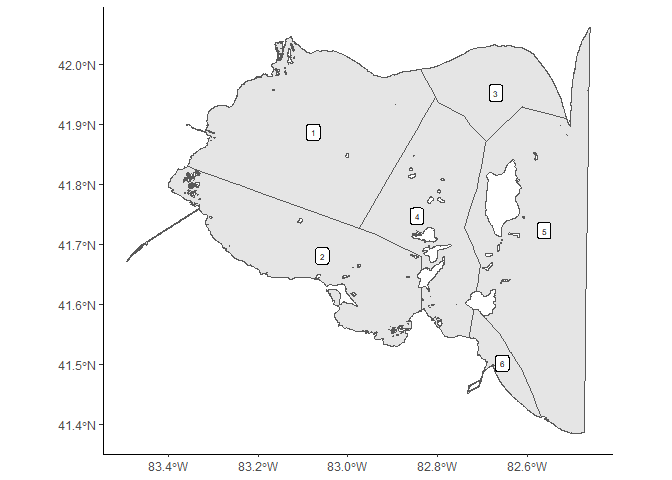
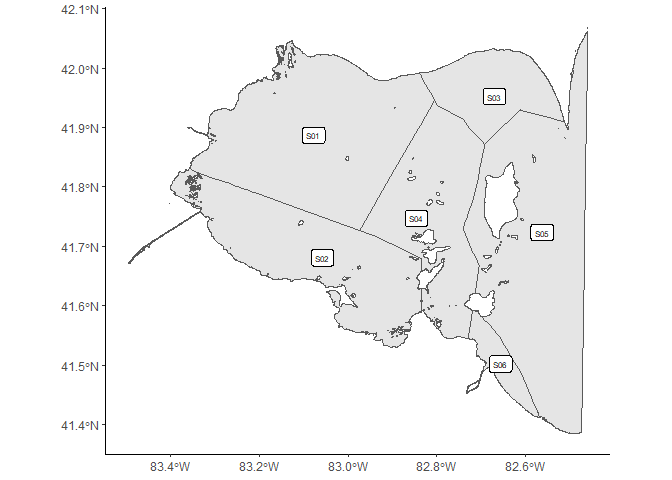
updates readme
provides an additional example for the addition of the 5 minute grid

diff --git a/README.md b/README.md
@@ -42,17 +42,17 @@ shape_ebstrata
 #> Dimension:     XY
 #> Bounding box:  xmin: -80.38612 ymin: 42.13901 xmax: -79.05942 ymax: 42.85076
 #> Geodetic CRS:  WGS 84
-#>    basin STRATUM name area_km2                       geometry
-#> 1     EB       1    1      261 POLYGON ((-80.08151 42.4017...
-#> 2     EB       2    2      501 POLYGON ((-80.34535 42.3561...
-#> 3     EB       3    3      650 POLYGON ((-79.93737 42.6514...
-#> 4     EB       4    4      692 POLYGON ((-79.52855 42.6150...
-#> 5     EB       5    5      580 POLYGON ((-80.07649 42.4037...
-#> 6     EB       6    6      549 POLYGON ((-80.07649 42.4037...
-#> 7     EB       7    7      459 POLYGON ((-79.32086 42.6942...
-#> 8     EB       8    8      375 POLYGON ((-79.52855 42.6150...
-#> 9     EB       9    9      229 POLYGON ((-79.06974 42.7886...
-#> 10    EB      10   10      306 POLYGON ((-79.32086 42.6942...
+#>    BASIN STRATUM name area_km2                       geometry
+#> 1     EB     S15  S15      261 POLYGON ((-80.08151 42.4017...
+#> 2     EB     S16  S16      501 POLYGON ((-80.34535 42.3561...
+#> 3     EB     S17  S17      649 POLYGON ((-79.70773 42.6330...
+#> 4     EB     S18  S18      691 POLYGON ((-79.52855 42.6150...
+#> 5     EB     S19  S19      579 POLYGON ((-80.07649 42.4037...
+#> 6     EB     S20  S20      548 POLYGON ((-80.08151 42.4017...
+#> 7     EB     S21  S21      459 POLYGON ((-79.32086 42.6942...
+#> 8     EB     S22  S22      375 POLYGON ((-79.52855 42.6150...
+#> 9     EB     S23  S23      229 POLYGON ((-79.06974 42.7886...
+#> 10    EB     S24  S24      305 POLYGON ((-79.32086 42.6942...
 # plot(shape_ebstrata)
 ## view ggplot basemap
 data("base_ebstrata")
@@ -94,3 +94,11 @@ base_wbstrata
 ```
 
 <img src="man/figures/README-wbstrata-1.png" width="60%" />
+
+### 5 minute grid
+
+``` r
+base_erieshore + geom_sf(data = shape_5mingrid, alpha = 0.1)
+```
+
+<img src="man/figures/README-fivemingrid-1.png" width="60%" />
